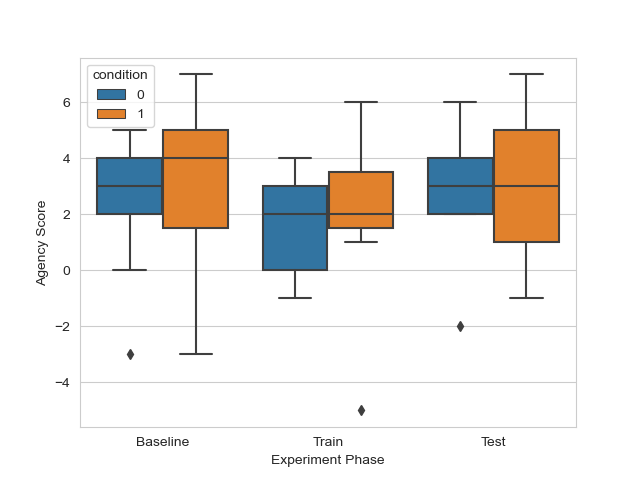
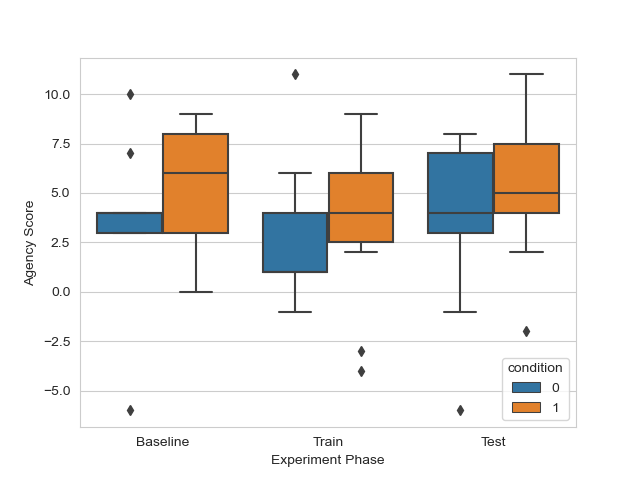
bugfixes for embodiment visualizations

diff --git a/generate_plots.py b/generate_plots.py
@@ -140,7 +140,7 @@ def main(participant_id, experiment_block):
             for question_id in range(1, NUM_QUESTIONS_TLX + 1):
                 tlx_responses[block_id][f'Q{question_id}'].append(df.iloc[5 + block_id, 1 + question_id])
             for question_id in range(1, NUM_QUESTIONS_EMBODIMENT_OWNERSHIP + 1):
-                embodiment_responses[block_id][f'Q{question_id}'].append(df.iloc[9 + block_id, 2 + question_id])
+                embodiment_responses[block_id][f'Q{question_id}'].append(df.iloc[9 + 10 * block_id, 2 + question_id])
             for question_id in range(1, NUM_QUESTIONS_EMBODIMENT_AGENCY + 1):
                 embodiment_responses[block_id][f'Q{question_id + NUM_QUESTIONS_EMBODIMENT_OWNERSHIP}'].append(df.iloc[11 + 10 * block_id, 2 + question_id])
             for question_id in range(1, NUM_QUESTIONS_EMBODIMENT_TACTILE + 1):
@@ -193,7 +193,7 @@ def main(participant_id, experiment_block):
             for question_id in range(1, NUM_QUESTIONS_TLX + 1):
                 tlx_responses_no[block_id][f'Q{question_id}'].append(df.iloc[5 + block_id, 1 + question_id])
             for question_id in range(1, NUM_QUESTIONS_EMBODIMENT_OWNERSHIP + 1):
-                embodiment_responses_no[block_id][f'Q{question_id}'].append(df.iloc[9 + block_id, 2 + question_id])
+                embodiment_responses_no[block_id][f'Q{question_id}'].append(df.iloc[9 + 10 * block_id, 2 + question_id])
             for question_id in range(1, NUM_QUESTIONS_EMBODIMENT_AGENCY + 1):
                 embodiment_responses_no[block_id][f'Q{question_id + NUM_QUESTIONS_EMBODIMENT_OWNERSHIP}'].append(df.iloc[11 + 10 * block_id, 2 + question_id])
             for question_id in range(1, NUM_QUESTIONS_EMBODIMENT_TACTILE + 1):
@@ -216,7 +216,7 @@ def main(participant_id, experiment_block):
     print(f'Generating plots for Presence PCA...')
     sns.set_style(style='whitegrid')
 
-    ownership_score, agency_score, tactile_score, location_score, appearance_score = compute_embodiment_scores(presence_responses, presence_responses_no, experiment_block)
+    ownership_score, agency_score, tactile_score, location_score, appearance_score = compute_embodiment_scores(embodiment_responses, embodiment_responses_no, experiment_block)
 
     mental_demand_score, physical_demand_score, temporal_demand_score, performance_score, effort_score, frustration_score = compute_tlx_scores(tlx_responses, tlx_responses_no, experiment_block)
     
@@ -275,7 +275,6 @@ def main(participant_id, experiment_block):
     # df_ownership_score_test = pd.concat([df_ownership_score_with_test, df_ownership_score_without_test])
 
     # df_ownership_score = pd.concat([df_ownership_score_baseline, df_ownership_score_train, df_ownership_score_test])
-
     # ax = sns.boxplot(data = df_ownership_score, x='phase', y='score', hue='condition')
     # ax.set(xlabel='Experiment Phase', ylabel='Body Ownership Score')
     # plotname = 'Embodiment-Ownership.png'
@@ -458,59 +457,59 @@ def main(participant_id, experiment_block):
     5. Appearance Plot
     """
 
-    # condition_labels = []
-    # for i in range(len(appearance_score[BASELINE]['with_haptics'])):
-    #     condition_labels.append(1)
-    # phase_labels = []
-    # for i in range(len(appearance_score[BASELINE]['with_haptics'])):
-    #     phase_labels.append(0)
-    # df_appearance_score_with_baseline = pd.DataFrame({'score': appearance_score[BASELINE]['with_haptics'], 'condition': condition_labels, 'phase': phase_labels})
-    # condition_labels = []
-    # for i in range(len(appearance_score[BASELINE]['without_haptics'])):
-    #     condition_labels.append(0)
-    # phase_labels = []
-    # for i in range(len(appearance_score[BASELINE]['without_haptics'])):
-    #     phase_labels.append(0)
-    # df_appearance_score_without_baseline = pd.DataFrame({'score': appearance_score[BASELINE]['without_haptics'], 'condition': condition_labels, 'phase': phase_labels})
-    # df_appearance_score_baseline = pd.concat([df_appearance_score_with_baseline, df_appearance_score_without_baseline])
+    condition_labels = []
+    for i in range(len(appearance_score[BASELINE]['with_haptics'])):
+        condition_labels.append(1)
+    phase_labels = []
+    for i in range(len(appearance_score[BASELINE]['with_haptics'])):
+        phase_labels.append(0)
+    df_appearance_score_with_baseline = pd.DataFrame({'score': appearance_score[BASELINE]['with_haptics'], 'condition': condition_labels, 'phase': phase_labels})
+    condition_labels = []
+    for i in range(len(appearance_score[BASELINE]['without_haptics'])):
+        condition_labels.append(0)
+    phase_labels = []
+    for i in range(len(appearance_score[BASELINE]['without_haptics'])):
+        phase_labels.append(0)
+    df_appearance_score_without_baseline = pd.DataFrame({'score': appearance_score[BASELINE]['without_haptics'], 'condition': condition_labels, 'phase': phase_labels})
+    df_appearance_score_baseline = pd.concat([df_appearance_score_with_baseline, df_appearance_score_without_baseline])
 
-    # condition_labels = []
-    # for i in range(len(appearance_score[TRAIN]['with_haptics'])):
-    #     condition_labels.append(1)
-    # phase_labels = []
-    # for i in range(len(appearance_score[TRAIN]['with_haptics'])):
-    #     phase_labels.append(1) 
-    # df_appearance_score_with_train = pd.DataFrame({'score': appearance_score[TRAIN]['with_haptics'], 'condition': condition_labels, 'phase': phase_labels})
-    # condition_labels = []
-    # for i in range(len(appearance_score[TRAIN]['without_haptics'])):
-    #     condition_labels.append(0)
-    # phase_labels = []
-    # for i in range(len(appearance_score[TRAIN]['without_haptics'])):
-    #     phase_labels.append(1)
-    # df_appearance_score_without_train = pd.DataFrame({'score': appearance_score[TRAIN]['without_haptics'], 'condition': condition_labels, 'phase': phase_labels})
-    # df_appearance_score_train = pd.concat([df_appearance_score_with_train, df_appearance_score_without_train])
+    condition_labels = []
+    for i in range(len(appearance_score[TRAIN]['with_haptics'])):
+        condition_labels.append(1)
+    phase_labels = []
+    for i in range(len(appearance_score[TRAIN]['with_haptics'])):
+        phase_labels.append(1) 
+    df_appearance_score_with_train = pd.DataFrame({'score': appearance_score[TRAIN]['with_haptics'], 'condition': condition_labels, 'phase': phase_labels})
+    condition_labels = []
+    for i in range(len(appearance_score[TRAIN]['without_haptics'])):
+        condition_labels.append(0)
+    phase_labels = []
+    for i in range(len(appearance_score[TRAIN]['without_haptics'])):
+        phase_labels.append(1)
+    df_appearance_score_without_train = pd.DataFrame({'score': appearance_score[TRAIN]['without_haptics'], 'condition': condition_labels, 'phase': phase_labels})
+    df_appearance_score_train = pd.concat([df_appearance_score_with_train, df_appearance_score_without_train])
 
-    # condition_labels = []
-    # for i in range(len(appearance_score[TEST]['with_haptics'])):
-    #     condition_labels.append(1)
-    # phase_labels = []
-    # for i in range(len(appearance_score[TEST]['with_haptics'])):
-    #     phase_labels.append(2) 
-    # df_appearance_score_with_test = pd.DataFrame({'score': appearance_score[TEST]['with_haptics'], 'condition': condition_labels, 'phase': phase_labels})
-    # condition_labels = []
-    # for i in range(len(appearance_score[TEST]['without_haptics'])):
-    #     condition_labels.append(0)
-    # phase_labels = []
-    # for i in range(len(appearance_score[TEST]['without_haptics'])):
-    #     phase_labels.append(2) 
-    # df_appearance_score_without_test = pd.DataFrame({'score': appearance_score[TEST]['without_haptics'], 'condition': condition_labels, 'phase': phase_labels})
-    # df_appearance_score_test = pd.concat([df_appearance_score_with_test, df_appearance_score_without_test])
+    condition_labels = []
+    for i in range(len(appearance_score[TEST]['with_haptics'])):
+        condition_labels.append(1)
+    phase_labels = []
+    for i in range(len(appearance_score[TEST]['with_haptics'])):
+        phase_labels.append(2) 
+    df_appearance_score_with_test = pd.DataFrame({'score': appearance_score[TEST]['with_haptics'], 'condition': condition_labels, 'phase': phase_labels})
+    condition_labels = []
+    for i in range(len(appearance_score[TEST]['without_haptics'])):
+        condition_labels.append(0)
+    phase_labels = []
+    for i in range(len(appearance_score[TEST]['without_haptics'])):
+        phase_labels.append(2) 
+    df_appearance_score_without_test = pd.DataFrame({'score': appearance_score[TEST]['without_haptics'], 'condition': condition_labels, 'phase': phase_labels})
+    df_appearance_score_test = pd.concat([df_appearance_score_with_test, df_appearance_score_without_test])
 
-    # df_appearance_score = pd.concat([df_appearance_score_baseline, df_appearance_score_train, df_appearance_score_test])
+    df_appearance_score = pd.concat([df_appearance_score_baseline, df_appearance_score_train, df_appearance_score_test])
 
-    # ax = sns.boxplot(data=df_appearance_score, x='phase', y='score', hue='condition')
-    # ax.set(xlabel='Experiment Phase', ylabel='Appearance Score')
-    # plotname = 'Embodiment-Appearance.png'   
+    ax = sns.boxplot(data=df_appearance_score, x='phase', y='score', hue='condition')
+    ax.set(xlabel='Experiment Phase', ylabel='Appearance Score')
+    plotname = 'Embodiment-Appearance.png'   
     
     
     # ax.set_xticklabels(custom_x_labels)
@@ -528,6 +527,111 @@ def main(participant_id, experiment_block):
     """
     NASA TLX Boxplots
     """
+
+    """
+    1. Mental Demand
+    """
+
+    # condition_labels = []
+    # phase_labels = []
+    # for i in range(len(mental_demand_score[BASELINE]['with_haptics'])):
+    #     condition_labels.append(1)
+    #     phase_labels.append(0)
+    # df_mental_demand_score_with_baseline = pd.DataFrame({'score': mental_demand_score[BASELINE]['with_haptics'], 'condition': condition_labels, 'phase': phase_labels})
+    # condition_labels = []
+    # phase_labels = []
+    # for i in range(len(mental_demand_score[BASELINE]['without_haptics'])):
+    #     condition_labels.append(0)
+    #     phase_labels.append(0)
+    # df_mental_demand_score_without_baseline = pd.DataFrame({'score': mental_demand_score[BASELINE]['without_haptics'], 'condition': condition_labels, 'phase': phase_labels})
+    # df_mental_demand_score_baseline = pd.concat([df_mental_demand_score_with_baseline, df_mental_demand_score_without_baseline])
+
+    # condition_labels = []
+    # phase_labels = []
+    # for i in range(len(mental_demand_score[TRAIN]['with_haptics'])):
+    #     condition_labels.append(1)
+    #     phase_labels.append(1)
+    # df_mental_demand_score_with_train = pd.DataFrame({'score': mental_demand_score[TRAIN]['with_haptics'], 'condition': condition_labels, 'phase': phase_labels})
+    # condition_labels = []
+    # phase_labels = []
+    # for i in range(len(mental_demand_score[TRAIN]['without_haptics'])):
+    #     condition_labels.append(0)
+    #     phase_labels.append(1)
+    # df_mental_demand_score_without_train = pd.DataFrame({'score': mental_demand_score[TRAIN]['without_haptics'], 'condition': condition_labels, 'phase': phase_labels})
+    # df_mental_demand_score_train = pd.concat([df_mental_demand_score_with_train, df_mental_demand_score_without_train])
+
+    # condition_labels = []
+    # phase_labels = []
+    # for i in range(len(mental_demand_score[TEST]['with_haptics'])):
+    #     condition_labels.append(1)
+    #     phase_labels.append(2)
+    # df_mental_demand_score_with_test = pd.DataFrame({'score': mental_demand_score[TEST]['with_haptics'], 'condition': condition_labels, 'phase': phase_labels})
+    # condition_labels = []
+    # phase_labels = []
+    # for i in range(len(mental_demand_score[TEST]['without_haptics'])):
+    #     condition_labels.append(0)
+    #     phase_labels.append(2)
+    # df_mental_demand_score_without_test = pd.DataFrame({'score': mental_demand_score[TEST]['without_haptics'], 'condition': condition_labels, 'phase': phase_labels})
+    # df_mental_demand_score_test = pd.concat([df_mental_demand_score_with_test, df_mental_demand_score_without_test])
+
+    # df_mental_demand_score = pd.concat([df_mental_demand_score_baseline, df_mental_demand_score_train, df_mental_demand_score_test])
+
+    # ax = sns.boxplot(data=df_mental_demand_score, x='phase', y='score', hue='condition')
+    # ax.set(xlabel='Experiment Phase', ylabel='Mental Demand Score')
+    # plotname = 'TLX-Mental.png'
+
+
+    # condition_labels = []
+    # phase_labels = []
+    # for i in range(len(physical_demand_score[BASELINE]['with_haptics'])):
+    #     condition_labels.append(1)
+    #     phase_labels.append(0)
+    # df_physical_demand_score_with_baseline = pd.DataFrame({'score': physical_demand_score[BASELINE]['with_haptics'], 'condition': condition_labels, 'phase': phase_labels})
+    # condition_labels = []
+    # phase_labels = []
+    # for i in range(len(physical_demand_score[BASELINE]['without_haptics'])):
+    #     condition_labels.append(0)
+    #     phase_labels.append(0)
+    # df_physical_demand_score_without_baseline = pd.DataFrame({'score': physical_demand_score[BASELINE]['without_haptics'], 'condition': condition_labels, 'phase': phase_labels})
+    # df_physical_demand_score_baseline = pd.concat([df_physical_demand_score_with_baseline, df_physical_demand_score_without_baseline])
+
+    # condition_labels = []
+    # phase_labels = []
+    # for i in range(len(physical_demand_score[TRAIN]['with_haptics'])):
+    #     condition_labels.append(1)
+    #     phase_labels.append(1)
+    # df_physical_demand_score_with_train = pd.DataFrame({'score': physical_demand_score[TRAIN]['with_haptics'], 'condition': condition_labels, 'phase': phase_labels})
+    # condition_labels = []
+    # phase_labels = []
+    # for i in range(len(physical_demand_score[TRAIN]['without_haptics'])):
+    #     condition_labels.append(0)
+    #     phase_labels.append(1)
+    # df_physical_demand_score_without_train = pd.DataFrame({'score': physical_demand_score[TRAIN]['without_haptics'], 'condition': condition_labels, 'phase': phase_labels})
+    # df_physical_demand_score_train = pd.concat([df_physical_demand_score_with_train, df_physical_demand_score_without_train])
+
+    # condition_labels = []
+    # phase_labels = []
+    # for i in range(len(physical_demand_score[TEST]['with_haptics'])):
+    #     condition_labels.append(1)
+    #     phase_labels.append(2)
+    # df_physical_demand_score_with_test = pd.DataFrame({'score': physical_demand_score[TEST]['with_haptics'], 'condition': condition_labels, 'phase': phase_labels})
+    # condition_labels = []
+    # phase_labels = []
+    # for i in range(len(physical_demand_score[TEST]['without_haptics'])):
+    #     condition_labels.append(0)
+    #     phase_labels.append(2)
+    # df_physical_demand_score_without_test = pd.DataFrame({'score': physical_demand_score[TEST]['without_haptics'], 'condition': condition_labels, 'phase': phase_labels})
+    # df_physical_demand_score_test = pd.concat([df_physical_demand_score_with_test, df_physical_demand_score_without_test])
+
+    # df_physical_demand_score = pd.concat([df_physical_demand_score_baseline, df_physical_demand_score_train, df_physical_demand_score_test])
+
+    # ax = sns.boxplot(data=df_physical_demand_score, x='phase', y='score', hue='condition')
+    # ax.set(xlabel='Experiment Phase', ylabel='Physical Demand Score')
+    # plotname = 'TLX-Physical.png'
+
+
+    ax.set_xticklabels(custom_x_labels)
+    plt.savefig(plotname)
 
 
 
